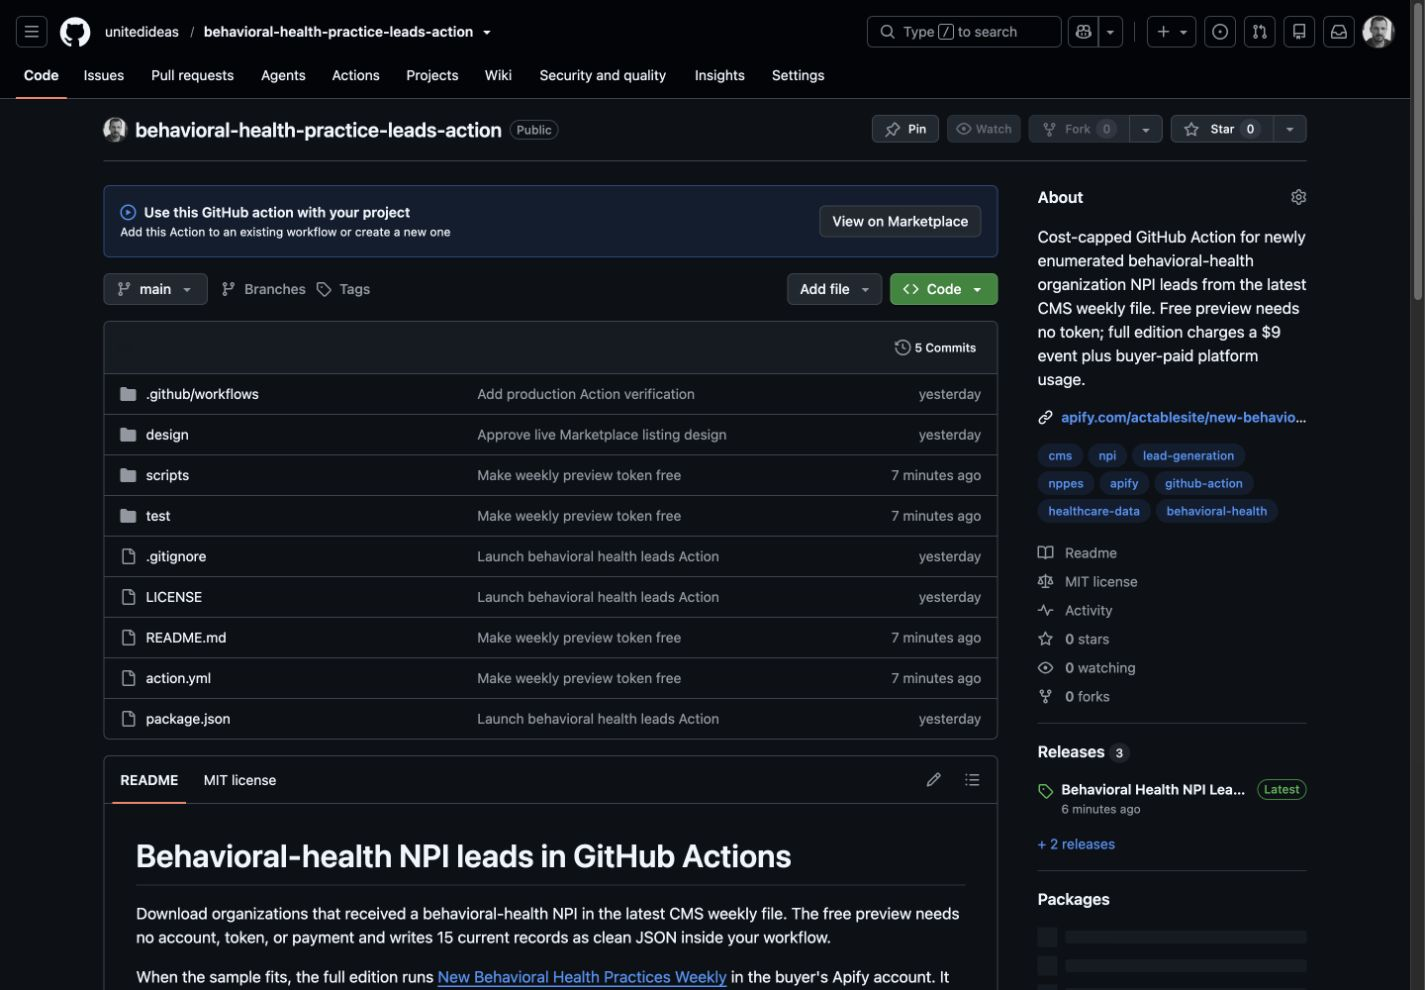
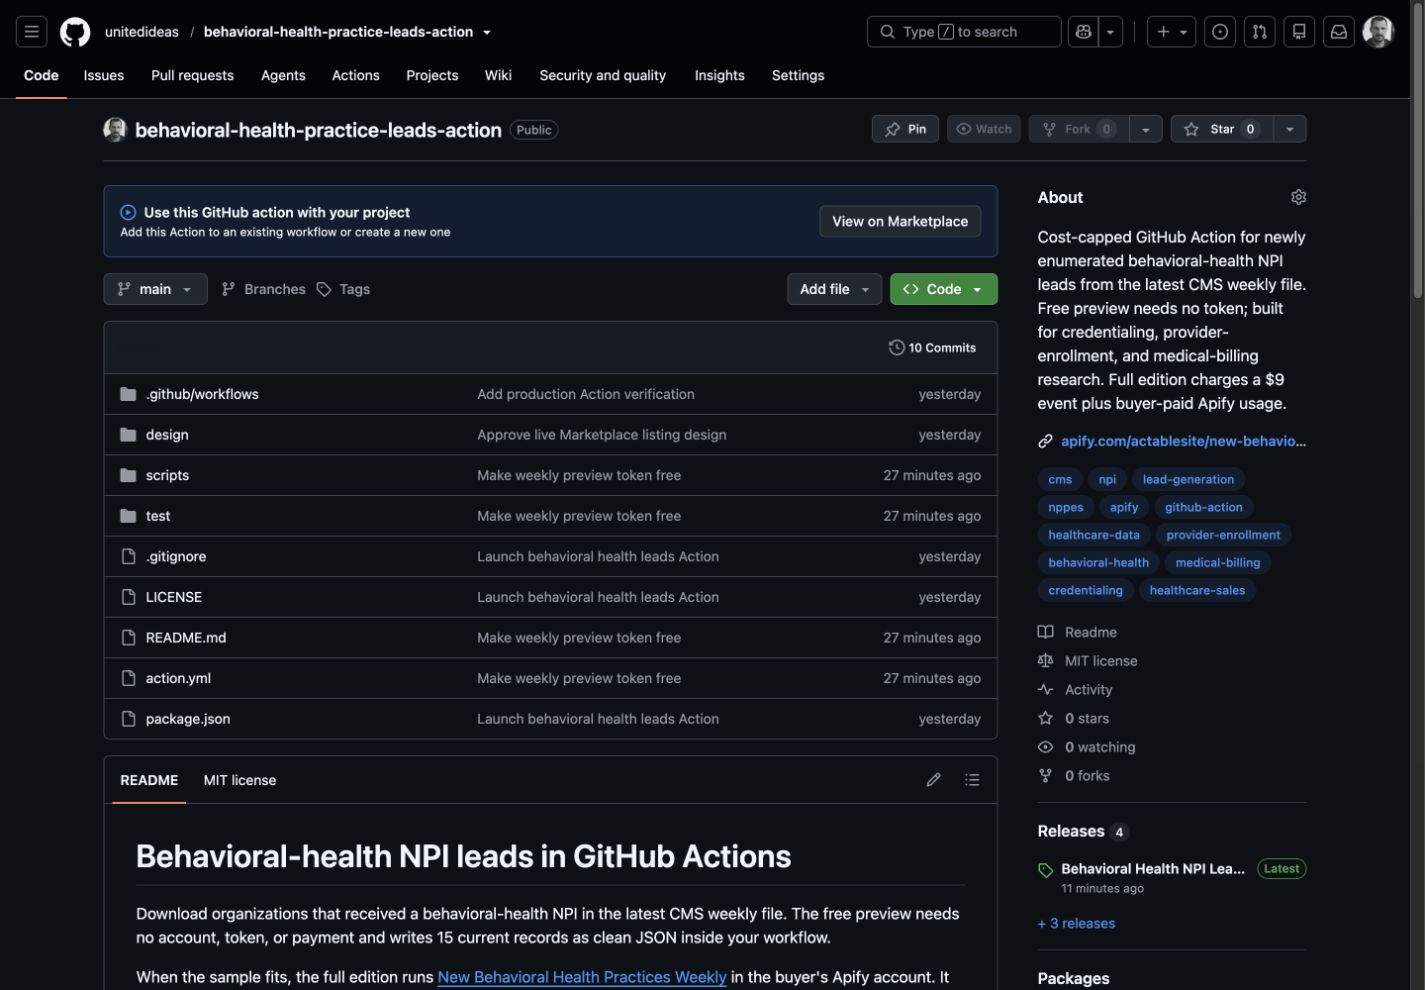
Refresh buyer-intent design evidence

diff --git a/design/reviews/github-action-listing.md b/design/reviews/github-action-listing.md
@@ -3,6 +3,7 @@
 Reviewed: 2026-07-14
 Release source revision: `0af10ff42e3f51f6ab8b8a34dc73b4c635c50c3b`
 Verification workflow revision: `dc85c163fe63bb3c1bca6f590e674c4ba590f059`
+Public repository metadata verified: `2026-07-15T00:35:18Z`
 Surfaces: <https://github.com/marketplace/actions/new-behavioral-health-practices-weekly>, <https://github.com/unitedideas/behavioral-health-practice-leads-action>, and <https://github.com/unitedideas/behavioral-health-practice-leads-action/actions/runs/29379116988>
 
 ## Conversion contract
@@ -14,7 +15,7 @@ Surfaces: <https://github.com/marketplace/actions/new-behavioral-health-practice
 
 ## Evidence and judgment
 
-- Measured evidence: Marketplace release `v1.0.3` is public and floating tag `v1` resolves to the reviewed release source; hosted test run `29379040030` passed with zero annotations; production-preview run `29379116988` invoked the public `v1` tag without a secret, delivered three CA/TX records, and rendered the new workflow summary; GitHub Marketplace returns the listing for both `new behavioral health practices` and `behavioral health npi`; public code search reports zero non-owner Action usages at review time.
+- Measured evidence: Marketplace release `v1.0.3` is public and floating tag `v1` resolves to the reviewed release source; hosted test run `29379040030` passed with zero annotations; production-preview run `29379116988` invoked the public `v1` tag without a secret, delivered three CA/TX records, and rendered the new workflow summary; GitHub Marketplace returns the listing for both `new behavioral health practices` and `behavioral health npi`; authenticated GitHub repository search ranks the Action first for `behavioral health leads`, second for `behavioral health npi`, and fourth for `medical billing leads`; public code search reports zero non-owner Action usages at review time.
 - Standards: the first README paragraph names the current weekly event and says the preview needs no account, token, or payment. The next paragraph discloses the full-edition price, buyer-funded Apify boundary, and explicit total-charge cap before setup detail.
 - Observed pattern: Action buyers scan repository description, release activity, copyable workflow, secret requirements, outputs, and failure/cost controls before adoption.
 - Hypothesis: an exact weekly healthcare-data job with a no-account preview will attract more qualified developer intent than a generic Actor API example or a preview that first requires a third-party secret.
@@ -28,17 +29,18 @@ Surfaces: <https://github.com/marketplace/actions/new-behavioral-health-practice
 - Workflow summary desktop: `design/renders/github-workflow-summary-desktop.png` at 1440 x 1000.
 - Workflow summary mobile: `design/renders/github-workflow-summary-mobile.png` at 390 x 844 after viewport reload.
 - Desktop exposes the repository job, latest release, Marketplace handoff, source tree, and the no-token preview boundary in the first screen. The full-edition $9 boundary begins in the same viewport.
-- Mobile keeps the repository description, free-preview statement, Apify destination, and Marketplace handoff readable, but GitHub places the file table ahead of the README. This is controlled by GitHub rather than repository CSS.
+- Mobile keeps the complete repository description, free-preview statement, $9 full-edition boundary, buyer-paid usage disclosure, Apify destination, and Marketplace handoff readable above the file table. GitHub places the file table ahead of the README; that ordering is controlled by GitHub rather than repository CSS.
 - The Marketplace desktop first screen exposes the exact job, no-account preview, full-edition price, latest version, categories, and copyable workflow. The Marketplace mobile first screen exposes the listing title, latest version, primary action, exact job, and complete no-token preview statement before normal scrolling.
 - The desktop run summary shows success, delivered count, CMS period, state filter, authoritative source, limitation, and paid handoff in one viewport. The 390 x 844 mobile first screen shows successful fulfillment, the summary heading, and delivered count; provenance, limitations, and the secondary paid handoff remain immediately below in normal document flow.
-- Copy, price, secret handling, cost cap, data limitations, and explicit non-outreach boundary are consistent across the repository metadata and README.
+- Copy, price, secret handling, cost cap, data limitations, and explicit non-outreach boundary are consistent across the repository metadata and README. The current public description explicitly names credentialing, provider-enrollment, and medical-billing research; the public topic set carries those same buyer-intent terms.
 
 ## Findings
 
 - **Closed — high:** release `v1.0.3` and floating tag `v1` deliver a real no-token preview with a source-linked conversion summary; the live listing identifies the release as latest and remains discoverable for the buyer query.
 - **Closed — high:** weekly and manual production-preview verification now invokes the public release without a secret and fails if the filtered JSON output is missing, empty, malformed, or contains an unexpected state.
 - **Closed — medium:** the public repository description now names the no-token preview, $9 event, and buyer-paid platform usage, preserving the decision path above the mobile file table.
+- **Closed — medium:** buyer-intent repository metadata now makes the Action rank in GitHub's top four for all three monitored product/use-case searches without creating another thin repository.
 - **Open — low:** GitHub's mobile file table remains ahead of the README, so the copyable workflow is below the first screen.
 - **Open — low:** GitHub's Marketplace mobile layout places the full $9 sentence just below the initial 390 x 844 viewport. The headline, exact data job, latest version, and primary action remain visible before scrolling; GitHub controls this layout.
 
-Any source, metadata, tag, release, or Marketplace-state change after the revision above invalidates this review.
+Any source, tag, release, or Marketplace-state change after the revisions above, or any public repository metadata change after `2026-07-15T00:35:18Z`, invalidates this review.